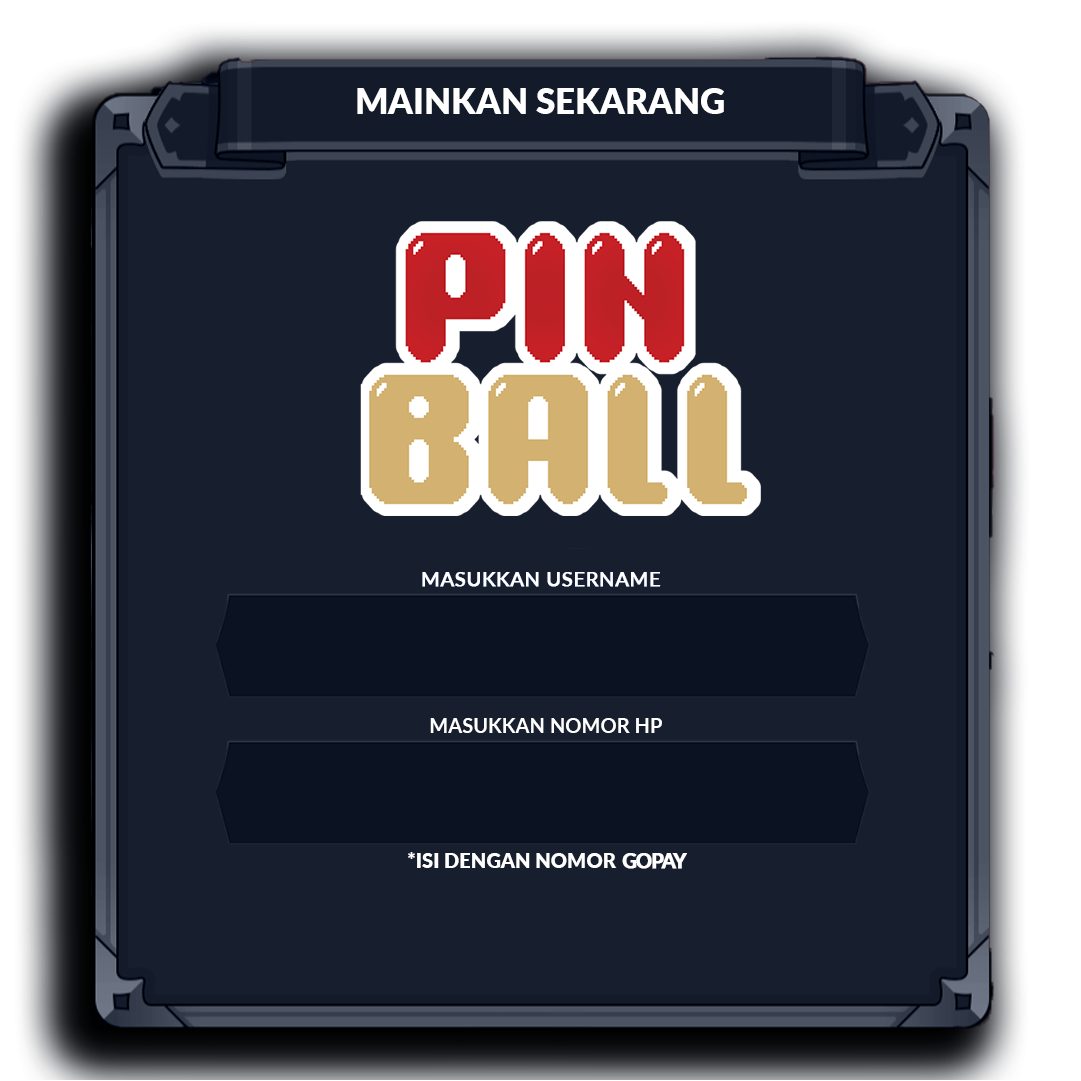
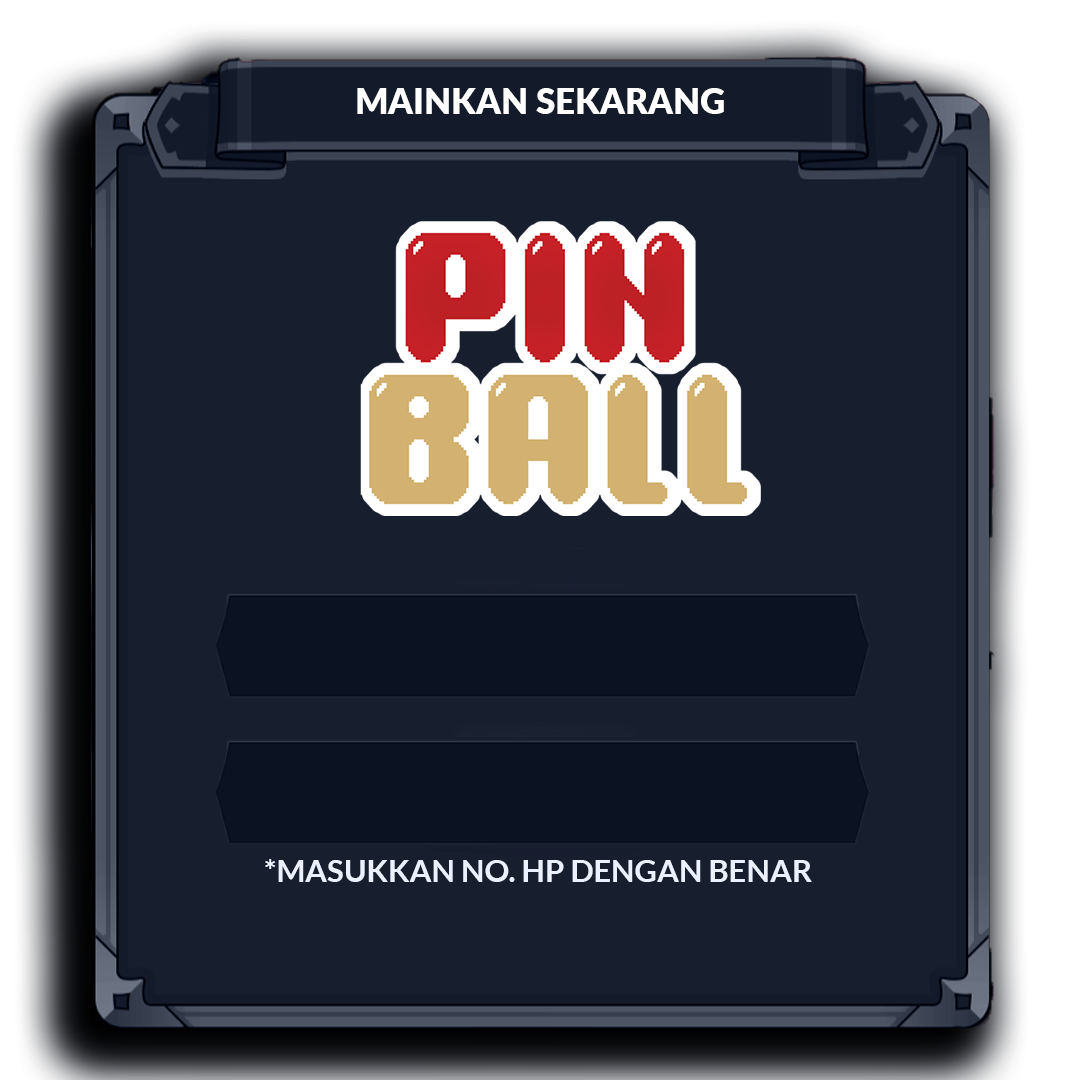
uodate dialog

Changed region(s): [[0.2442, 0.7632, 0.7632, 0.8242], [0.3969, 0.6411, 0.6105, 0.7021], [0.3969, 0.519, 0.6105, 0.5495]]

diff --git a/main.js b/main.js
@@ -195,23 +195,26 @@ class InputData extends Phaser.Scene {
         let clicked = this.sound.add("clickedBtn");
         this.add.graphics().setDepth(0).fillStyle(0x000000, 0.8).fillRect(0, 0, this.gameWidth, this.gameHeight);
         var dialogBg = this.add.sprite(this.halfWidth, this.halfHeight, "bgDialog");
-        dialogBg.setScale(0.25 * dpr);
-        this.inputText = this.add.rexInputText(this.halfWidth, this.halfHeight + (25 * dpr), 120 * dpr, 35 * dpr, {
+        dialogBg.setScale(0.35 * dpr);
+        this.inputText = this.add.rexInputText(this.halfWidth, this.halfHeight + (35 * dpr), 200 * dpr, 35 * dpr, {
             // Style properties
             align: "center",
-            fontSize: `${12 * dpr}px`,
+            fontSize: `${14 * dpr}px`,
             color: '#ffffff',
+            fontStyle: 'bold',
             border: 0,
             backgroundColor: 'transparent',
             borderColor: 'transparent',
             outline: 'none',
             direction: 'ltr',
+            placeholder: 'MASUKKAN USERNAME'
         });
 
-        this.inputText2 = this.add.rexInputText(this.halfWidth, this.halfHeight + (62 * dpr), 120 * dpr, 35 * dpr, {
+        this.inputText2 = this.add.rexInputText(this.halfWidth, this.halfHeight + (88 * dpr), 200 * dpr, 35 * dpr, {
             // Style properties
             align: "center",
-            fontSize: `${12 * dpr}px`,
+            fontSize: `${14 * dpr}px`,
+            fontStyle: 'bold',
             color: '#ffffff',
             border: 0,
             backgroundColor: 'transparent',
@@ -219,6 +222,7 @@ class InputData extends Phaser.Scene {
             outline: 'none',
             direction: 'ltr',
             type: 'number',
+            placeholder: 'MASUKKAN NO. HP'
         });
 
         let inputText = this.inputText;
@@ -232,8 +236,8 @@ class InputData extends Phaser.Scene {
         }, this);
 
         let world = this;
-        this.btnOk = this.add.sprite(this.halfWidth, this.halfHeight + (100 * dpr), "okButton");
-        this.btnOk.setScale(0.15 * dpr);
+        this.btnOk = this.add.sprite(this.halfWidth, this.halfHeight + (140 * dpr), "okButton");
+        this.btnOk.setScale(0.2 * dpr);
         this.btnOk.setInteractive();
         this.btnOk.on("pointerover", function () {
         });
